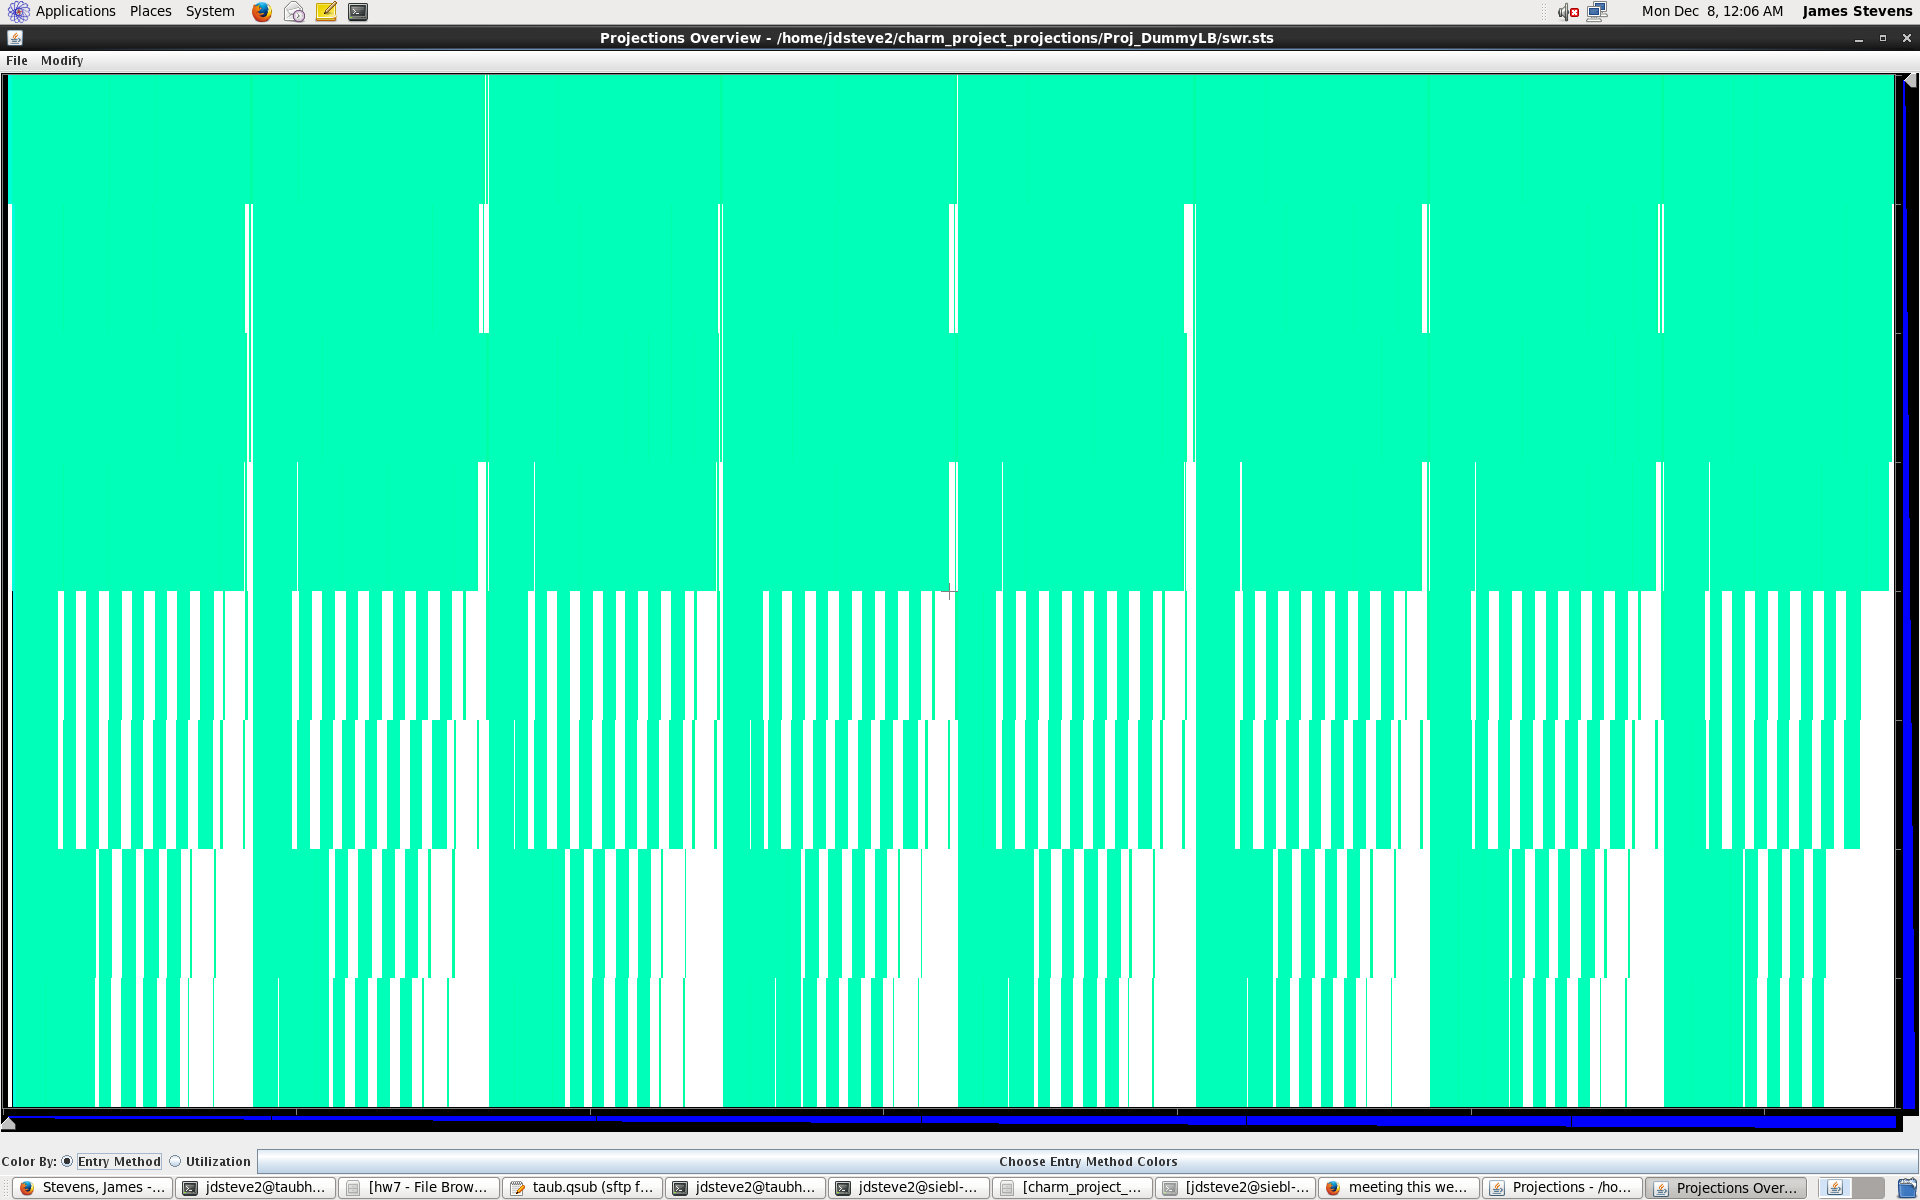
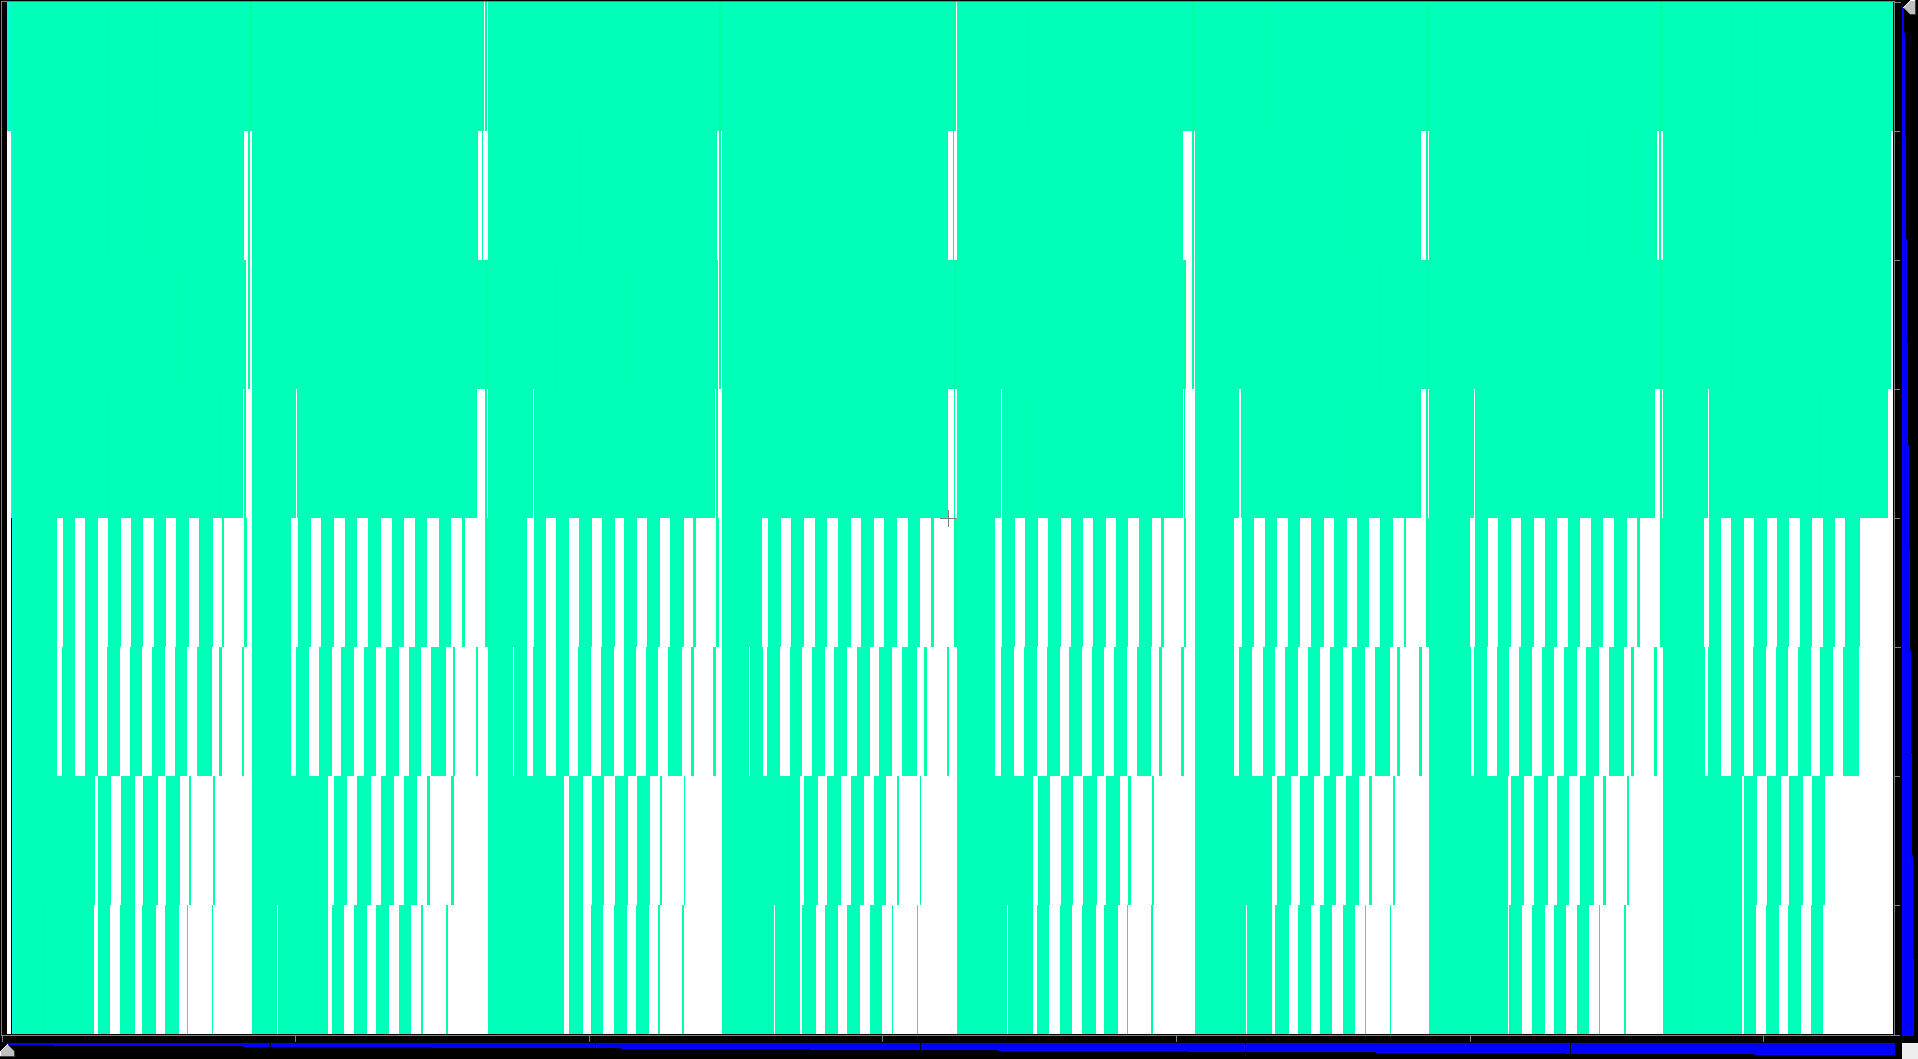
added 4 load balancing slides

diff --git a/CS598/scott_siam14.tex b/CS598/scott_siam14.tex
@@ -822,6 +822,51 @@
 
 \end{frame}
 
+%begin load balancing section
+\begin{frame}{Load Balancing Comparisons}{DummyLB, GreedyLB, RefineLB}
+  Load Imbalance Setup
+  \begin{itemize}
+  \item Double the number of time steps for left half of chare array
+  \item Load balance every 5 iterations
+  \item Configuration:
+    \begin{itemize}
+    \item 16 100x100 domains (+ 20 element overlap)
+    \item 1 chare per domain (4x4 array)
+    \item 20 timesteps for 8 chares
+    \item 10 timesteps for 8 chares
+    \item 40 iterations
+    \end{itemize}
+  \end{itemize}
+\end{frame}
+
+\begin{frame}{DummyLB}{Load Balancing Comparisons}
+  \begin{figure}{Time Profile}
+    \includegraphics[width=.65\paperwidth,height=.35\paperheight]{figures/LoadBalancing/TimeProfileDummyLB}
+  \end{figure}
+  \begin{figure}{\hspace{15pt}Overview}
+    \includegraphics[width=.65\paperwidth,height=.35\paperheight]{figures/LoadBalancing/OverviewDummyLB}
+  \end{figure}
+\end{frame}
+
+\begin{frame}{GreedyLB}{Load Balancing Comparisons}
+  \begin{figure}{Time Profile}
+    \includegraphics[width=.65\paperwidth,height=.35\paperheight]{figures/LoadBalancing/TimeProfileGreedyLB}
+  \end{figure}
+  \begin{figure}{\hspace{15pt}Overview}
+    \includegraphics[width=.65\paperwidth,height=.35\paperheight]{figures/LoadBalancing/OverviewGreedyLB}
+  \end{figure}
+\end{frame}
+
+\begin{frame}{RefineLB}{Load Balancing Comparisons}
+  \begin{figure}{Time Profile}
+    \includegraphics[width=.65\paperwidth,height=.35\paperheight]{figures/LoadBalancing/TimeProfileRefineLB}
+  \end{figure}
+  \begin{figure}{\hspace{15pt}Overview}
+    \includegraphics[width=.65\paperwidth,height=.35\paperheight]{figures/LoadBalancing/OverviewRefineLB}
+  \end{figure}
+\end{frame}
+
+
 \section{Conclusion}
 
 \begin{frame}{Future Work}
